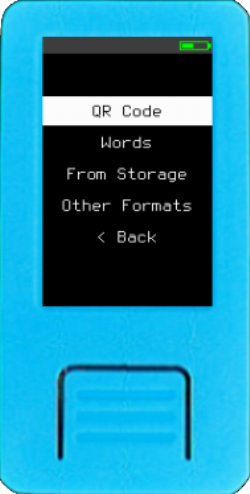
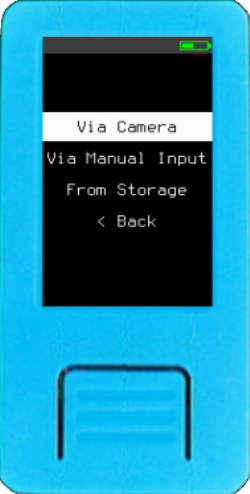
Revert "docs: update mnemonic loading flow"
This reverts commit e264e2f56a051c949fac1e15ed14b612e4271fa6.

Changed region(s): [[0.168, 0.1822, 0.868, 0.5162]]

diff --git a/docs/getting-started/usage/loading-a-mnemonic.en.md b/docs/getting-started/usage/loading-a-mnemonic.en.md
@@ -1,140 +1,92 @@
-Once you have either a 12 or 24-word
-[BIP39 mnemonic](https://github.com/bitcoin/bips/blob/master/bip-0039.mediawiki),
-choose `Load Mnemonic` on Krux's start menu, then choose the backup format you
-recognise:
+Once you have either a 12 or 24-word [BIP39 mnemonic](https://github.com/bitcoin/bips/blob/master/bip-0039.mediawiki), choose `Load Mnemonic` on Krux's start menu (aka login menu), and choose an input method:
 
 <img src="../../../img/maixpy_amigo/load-mnemonic-options-300.png" class="amigo">
 <img src="../../../img/maixpy_m5stickv/load-mnemonic-options-250.png" class="m5stickv">
 
-## Backup Formats
+## Input Methods
+<img src="../../../img/maixpy_m5stickv/load-mnemonic-camera-options-250.png" align="right" class="m5stickv">
+<img src="../../../img/maixpy_amigo/load-mnemonic-camera-options-300.png" align="right" class="amigo">
 
-### QR Code
-
-Use the camera to read a QR code containing the mnemonic. Krux can decode four
-types:
-
-- **Plain text QR**: mnemonic words separated by spaces.
-- [SeedQR](https://github.com/SeedSigner/seedsigner/blob/dev/docs/seed_qr/README.md):
-  the BIP39 word numbers concatenated as text.
-- [Compact SeedQR](https://github.com/SeedSigner/seedsigner/blob/dev/docs/seed_qr/README.md/#compactseedqr-specification):
-  the mnemonic bits concatenated as bytes.
-- [Encrypted Mnemonic](../features/encryption/encryption.md/#regarding-bip39-mnemonics):
-  a Krux format that encrypts the mnemonic bits and records the encryption
-  method.
+### Via Camera
+You can choose to use the camera to scan a `QR code`, `Tinyseed`, `OneKey KeyTag` or a `Binary Grid`. Learn more about these [metal backups here](../features/tinyseed.en.md).
 
 ----8<----
 camera-scan-tips.en.txt
 ----8<----
 
-After opening a wallet, you can use Krux to
-[back up the mnemonic](navigating-the-main-menu.md#backup-mnemonic) as a QR
-code, [transcribe](../features/QR-transcript-tools.md) it to paper or metal, or
-print it with a thermal printer. See the
-[printing section](../features/printing/printing.md) for more information. You
-can also use an
-[offline QR code generator](https://iancoleman.io/bip39/), ideally on an
-air-gapped device.
+<div style="clear: both"></div>
 
-### Words
+#### QR Code
 
+It's unpleasant having to manually enter 12 or 24 words every time you want to use Krux. To remedy this you can instead use the device's camera to read a QR code containing the words. Krux will decode QR codes of four types:
+
+- **Plain text QR**: The mnemonic words encoded as text, with words separated by spaces.
+- [SeedQR](https://github.com/SeedSigner/seedsigner/blob/dev/docs/seed_qr/README.md): Basically, it is the mnemonic words of the respective BIP39 numbers concatenated, encoded as text.
+- [Compact SeedQR](https://github.com/SeedSigner/seedsigner/blob/dev/docs/seed_qr/README.md/#compactseedqr-specification): Basically, it is the mnemonic words bits concatenated as bytes.
+- [Encrypted Mnemonic](../features/encryption/encryption.md/#regarding-bip39-mnemonics): A specification created by Krux that encrypts the mnemonic words bits and adds some information about the encryption used.
+
+After opening a wallet via one of the methods available you can use Krux to [backup the mnemonic](navigating-the-main-menu.md#backup-mnemonic) as QR code, [transcribe](../features/QR-transcript-tools.md) them to paper or metal using the transcription helpers or attach a thermal printer to your Krux and print out the mnemonic as QR. Check out the [printing section](../features/printing/printing.md) for more information.
+You can also use [an offline QR code generator for this](https://iancoleman.io/bip39/) (ideally on an airgapped device).
+
+#### Tinyseed, OneKey KeyTag or Binary Grid
+[Tinyseed](https://tinyseed.io/), [Onekey KeyTag](https://onekey.so/products/onekey-keytag/) and others directly encode a seed as binary, allowing for a very compact mnemonic storage. Krux devices have machine vision capabilities that allow users to scan these metal plates and instantly load mnemonics engraved on them (this feature is not available in [Krux Mobile Android app](../../faq.md#what-is-krux-mobile-android-app)).
+
+To ensure a proper scan, place the backup plate over a black background and fill in the punched areas with black to enhance contrast. Alternatively, you can scan a [thermally printed version](../features/printing/printing.md) or a completed template. You can view some [examples of encoded mnemonics here](../features/tinyseed.md), and explore our [available transcription templates here](../templates/index.md).
+
+### Via Manual Input
+<img src="../../../img/maixpy_m5stickv/load-mnemonic-manual-options-250.png" align="right" class="m5stickv">
+<img src="../../../img/maixpy_amigo/load-mnemonic-manual-options-300.png" align="right" class="amigo">
+
+Manually type `Words`, `Word Numbers`, `Tinyseed` (toggle the bits or punches) or [`Stackbit 1248`](https://stackbit.me/produto/stackbit-1248/).
+
+<div style="clear: both"></div>
+
+#### Words
 <img src="../../../img/maixpy_m5stickv/load-mnemonic-via-text-word-250.png" align="right" class="m5stickv">
 <img src="../../../img/maixpy_amigo/load-mnemonic-via-text-word-300.png" align="right" class="amigo">
 
-Enter each BIP39 word one at a time. Krux disables impossible letters as you
-type and attempts to autocomplete each word.
+Enter each word of your BIP39 mnemonic one at a time. Krux will disable impossible-to-reach letters as you type and will attempt to autocomplete your words to speed up the process.
 
 <div style="clear: both"></div>
-
-### From Storage
-
-<img src="../../../img/maixpy_m5stickv/load-mnemonic-storage-options-250.png" align="right" class="m5stickv">
-<img src="../../../img/maixpy_amigo/load-mnemonic-storage-options-300.png" align="right" class="amigo">
-
-Retrieve an
-[encrypted mnemonic previously stored](./navigating-the-main-menu.md/#encrypted)
-in internal memory or on an SD card. Enter the same key that was used to
-encrypt it.
-
-<div style="clear: both"></div>
-
-### Other Formats
-
-<img src="../../../img/maixpy_m5stickv/load-mnemonic-other-formats-250.png" align="right" class="m5stickv">
-<img src="../../../img/maixpy_amigo/load-mnemonic-other-formats-300.png" align="right" class="amigo">
-
-Specialist backup formats are grouped in one menu: `Tinyseed`,
-`Tinyseed (Bits)`, `OneKey KeyTag`, `Binary Grid`, `Word Numbers`, and
-`Stackbit 1248`.
-
-<div style="clear: both"></div>
-
-#### Tinyseed
-
-[Tinyseed](https://tinyseed.io/) directly encodes a seed as binary on a compact
-backup plate. Krux can scan a completed Tinyseed with its camera. This feature
-is not available in the
-[Krux Mobile Android app](../../faq.md#what-is-krux-mobile-android-app).
-
-Place the backup over a black background and fill punched areas with black to
-improve contrast. You can also scan a
-[thermally printed version](../features/printing/printing.md) or a completed
-template. See the [encoded examples](../features/tinyseed.md) and
-[transcription templates](../templates/index.md).
-
-#### Tinyseed (Bits)
-
-<img src="../../../img/maixpy_m5stickv/load-mnemonic-via-tinyseed-filled-250.png" align="right" class="m5stickv">
-<img src="../../../img/maixpy_amigo/load-mnemonic-via-tinyseed-filled-300.png" align="right" class="amigo">
-
-Enter each BIP39 word number (1-2048) in binary by toggling its bits. Krux
-calculates the checksum bits for the final word while you enter it.
-
-**Tip**: You can use this screen to generate a mnemonic with coin flips:
-
-- For each bit through 1024, mark it for heads and leave it unmarked for tails.
-- For the last word, Krux calculates the checksum positions. Flip seven times
-  for a 12-word mnemonic or three times for a 24-word mnemonic.
-
-<div style="clear: both"></div>
-
-#### OneKey KeyTag
-
-[OneKey KeyTag](https://onekey.so/products/onekey-keytag/) also stores a seed
-as a compact binary pattern. Use the camera to scan the completed plate.
-
-#### Binary Grid
-
-Use the camera to scan another supported binary-grid backup or a completed
-transcription template.
 
 #### Word Numbers
-
 <img src="../../../img/maixpy_m5stickv/load-mnemonic-via-numbers-word-250.png" align="right" class="m5stickv">
 <img src="../../../img/maixpy_amigo/load-mnemonic-via-numbers-word-300.png" align="right" class="amigo">
 
 ##### Decimal
-
-Enter each BIP39 word as its number from 1 to 2048. Use the
-[BIP39 English word list](https://github.com/bitcoin/bips/blob/master/bip-0039/english.txt)
-for reference.
+Enter each word of your BIP39 mnemonic as a number (1-2048) one at a time. You can use [this list](https://github.com/bitcoin/bips/blob/master/bip-0039/english.txt) for reference.
 
 ##### Hexadecimal and Octal
+You can also enter your BIP39 mnemonic word's numbers (1-2048) in hexadecimal format, with values ranging from 0x1 to 0x800, or in octal format, with values ranging from 01 to 04000. This is useful with some metal plate backups that uses those formats.
 
-Word numbers can also be entered in hexadecimal from `0x1` to `0x800`, or in
-octal from `01` to `04000`. These forms are useful with metal backups that use
-those number systems.
+<div style="clear: both"></div>
+
+#### Tinyseed (Bits)
+<img src="../../../img/maixpy_m5stickv/load-mnemonic-via-tinyseed-filled-250.png" align="right" class="m5stickv">
+<img src="../../../img/maixpy_amigo/load-mnemonic-via-tinyseed-filled-300.png" align="right" class="amigo">
+
+Enter the BIP39 mnemonic word's numbers (1-2048) in binary format, toggling necessary bits to recreate each of the word's respective number. The last word will have checksum bits dynamically toggled while you fill the bits.
+
+**Tip**: You can use this screen to generate a mnemonic by flipping a coin:
+
+- Flip a coin, if it is heads, mark the first space (value 1) of the word, if it is tails do nothing. Repeat this step for each space up to 1024 (if you flip 11 tails in a row, just leave the 2048 square marked).
+- The last word has the checksum, you will do as you did with the other words, the only difference is that you cannot set some spaces, they are calculated automatically. For 12 words you will flip the coin only 7 times, for spaces 16, 32, 64, 128, 256, 512 and 1024. For 24 words you will flip the coin only 3 times, for spaces 256, 512 and 1024.
 
 <div style="clear: both"></div>
 
 #### Stackbit 1248
-
 <img src="../../../img/maixpy_m5stickv/load-mnemonic-via-stackbit-filled-250.png" align="right" class="m5stickv">
 <img src="../../../img/maixpy_amigo/load-mnemonic-via-stackbit-filled-300.png" align="right" class="amigo">
 
-Enter each BIP39 word number with the
-[Stackbit 1248](https://stackbit.me/produto/stackbit-1248/) backup method. Each
-digit is the sum of marked values 1, 2, 4, or 8. For example, word number 1268
-uses `(1)(2)(2,4)(8)`.
+Enter the BIP39 mnemonic word's numbers (1-2048) using the Stackbit 1248 metal plate backup method, where each of the four digits of the word's number is a sum of the numbers marked (punched) 1, 2, 4, or 8. For example, to enter the word "oyster", number 1268, you must punch (1)(2)(2,4)(8).
+
+<div style="clear: both"></div>
+
+### From Storage
+<img src="../../../img/maixpy_m5stickv/load-mnemonic-storage-options-250.png" align="right" class="m5stickv">
+<img src="../../../img/maixpy_amigo/load-mnemonic-storage-options-300.png" align="right" class="amigo">
+
+You can also retrieve [encrypted mnemonics previously stored](./navigating-the-main-menu.md/#encrypted) on device's internal memory or external (SD card). To load them you'll have to enter the same key you used to encrypt them.
 
 <div style="clear: both"></div>
 

diff --git a/docs/getting-started/usage/navigating-the-main-menu.en.md b/docs/getting-started/usage/navigating-the-main-menu.en.md
@@ -43,11 +43,7 @@ Words are converted to their BIP39 numeric indexes, those numbers are then conca
 
 - **Encrypted QR Code**
 
-This option converts the encrypted mnemonic into a QR code. Enter an encryption
-key and, optionally, a custom ID. When you scan this QR code through
-**Load Mnemonic -> QR Code**, you will be prompted to enter the decryption key
-to load the mnemonic stored in it. Like any QR code, it can be printed after
-setting up the printer driver.
+This option converts the encrypted mnemonic into a QR code. Enter an encryption key and, optionally, a custom ID. When you scan this QR code through **Load Mnemonic -> Via Camera -> QR Code**, you will be prompted to enter the decryption key to load the mnemonic stored in it. Like any QR code, it can be printed after setting up the printer driver.
 
 **Transcribing QR Codes**
 
